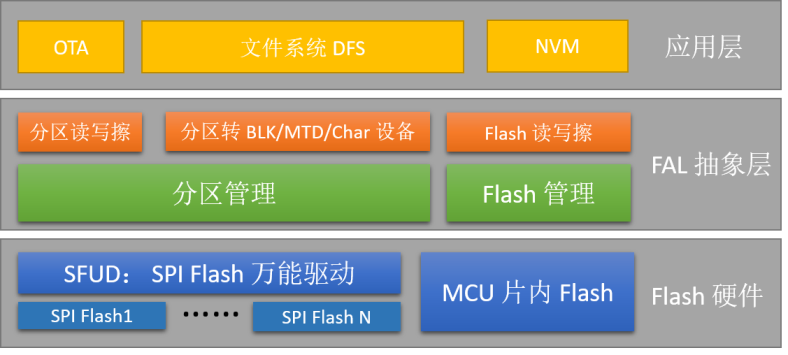
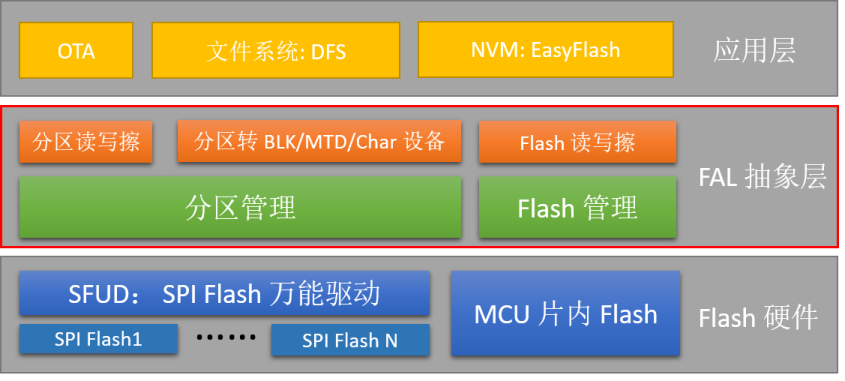
【更新】说明文档。

diff --git a/README.md b/README.md
@@ -7,7 +7,7 @@ FAL (Flash Abstraction Layer) Flash 抽象层，是对 Flash 及基于 Flash 的
 - 支持静态可配置的分区表，并可关联多个 Flash 设备；
 - 分区表支持 **自动装载** 。避免在多固件项目，分区表被多次定义的问题；
 - 代码精简，对操作系统 **无依赖** ，可运行于裸机平台，比如对资源有一定要求的 Bootloader；
-- 统一的操作接口。保证了文件系统、OTA、NVM 等对 Flash 有一定依赖的组件，底层 Flash 驱动的可重用性；
+- 统一的操作接口。保证了文件系统、OTA、NVM（例如：[EasyFlash](https://github.com/armink-rtt-pkgs/EasyFlash)） 等对 Flash 有一定依赖的组件，底层 Flash 驱动的可重用性；
 - 自带基于 Finsh/MSH 的测试命令，可以通过 Shell 按字节寻址的方式操作（读写擦） Flash 或分区，方便开发者进行调试、测试；
 
 FAL 框架图如下：
